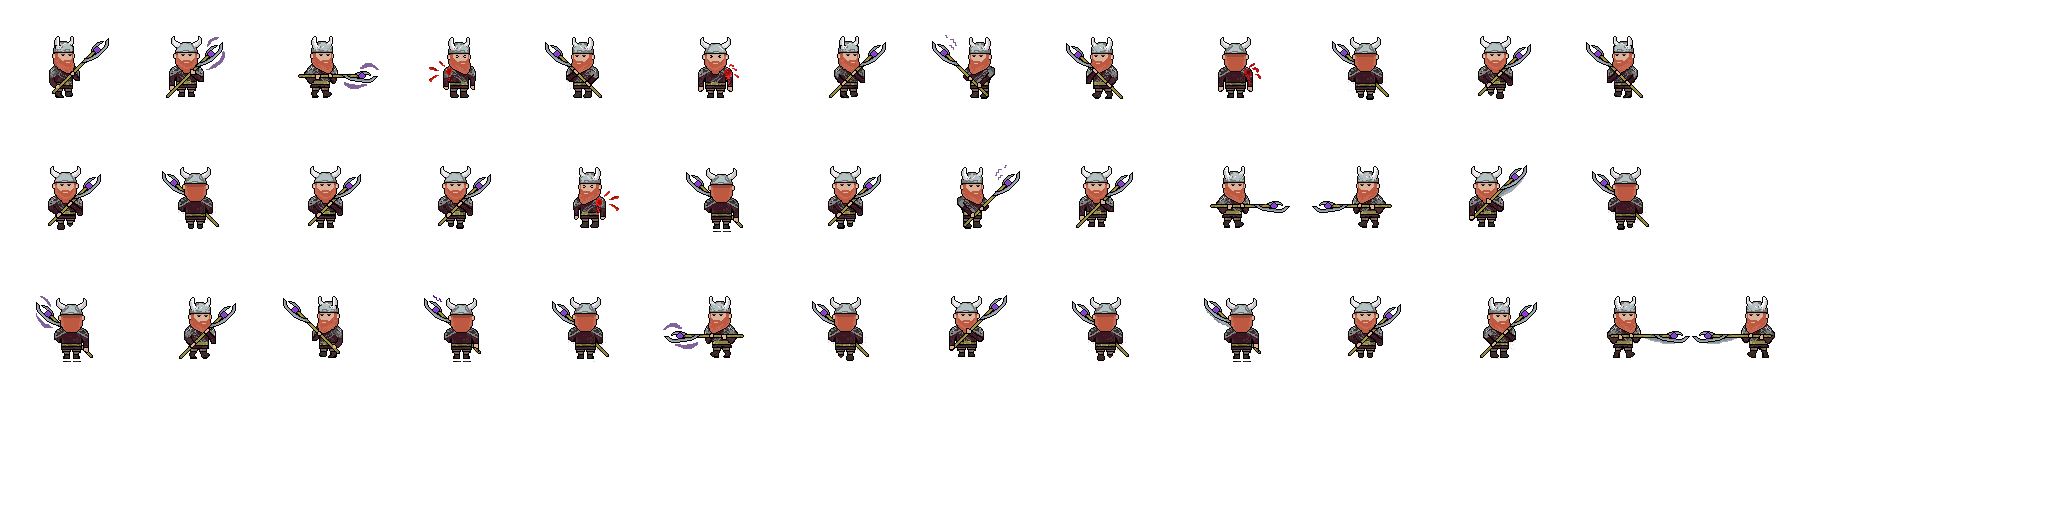
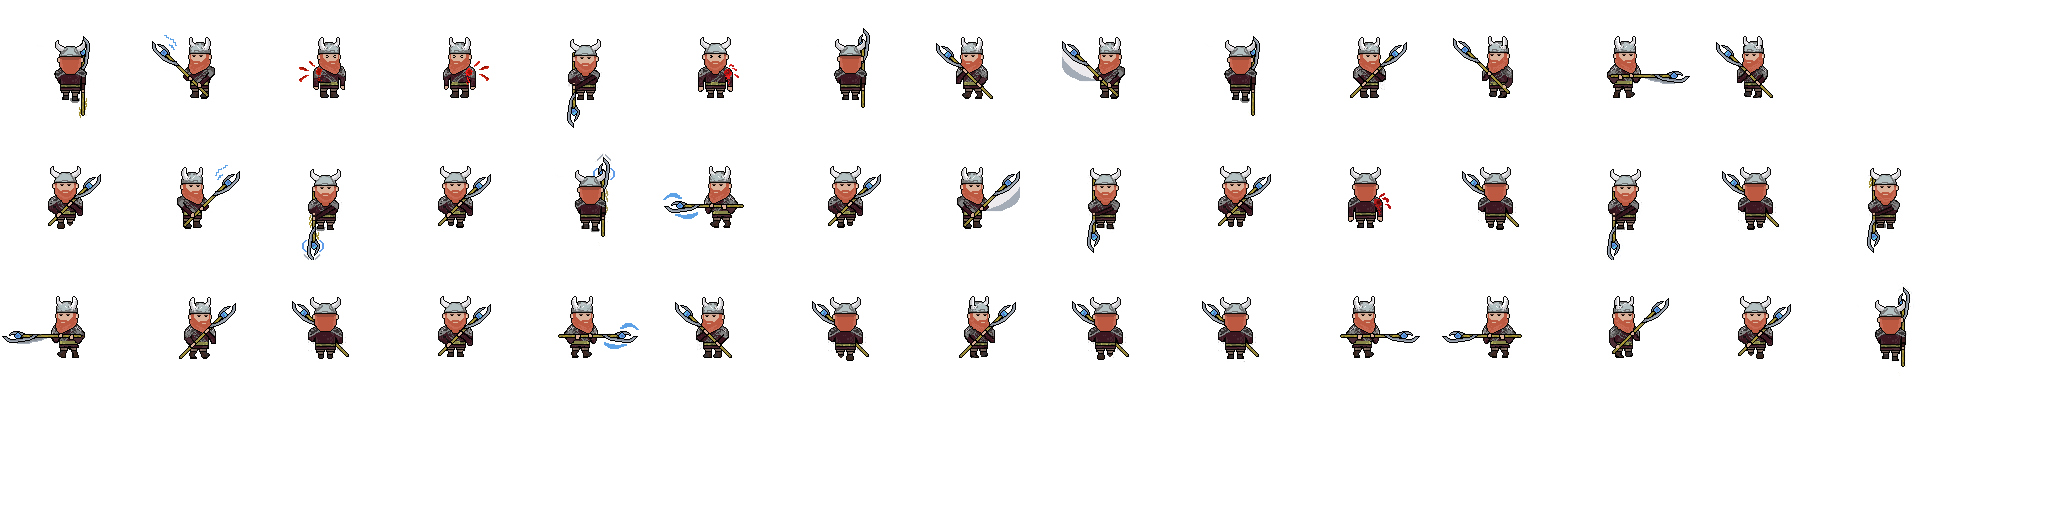
Added update scepter animations. #249 #226

diff --git a/source/core/src/main/com/deco2800/game/entities/factories/PlayerFactory.java b/source/core/src/main/com/deco2800/game/entities/factories/PlayerFactory.java
@@ -49,10 +49,12 @@ public class PlayerFactory {
                 animator = new AnimationRenderComponent(
                         ServiceLocator.getResourceService().getAsset("images/player_scepter.atlas", TextureAtlas.class));
                 // Sceptor animations
-                animator.addAnimation("left_scepter_attack", 0.1f);
-                animator.addAnimation("right_scepter_attack", 0.1f);
-                animator.addAnimation("up_scepter_attack", 0.1f);
-                animator.addAnimation("down_scepter_attack", 0.1f);
+                animator.addAnimation("left_scepter_attack", 0.08f);
+                animator.addAnimation("right_scepter_attack", 0.08f);
+                animator.addAnimation("up_scepter_attack", 0.08f);
+                animator.addAnimation("down_scepter_attack", 0.08f);
+                animator.addAnimation("up_attack", 0.08f);
+                animator.addAnimation("down_attack", 0.08f);
 
                 break;
             case "Hammer":

diff --git a/source/core/src/main/com/deco2800/game/components/weapons/Scepter.java b/source/core/src/main/com/deco2800/game/components/weapons/Scepter.java
@@ -51,10 +51,10 @@ public class Scepter extends MeleeWeapon {
         }
         switch (attackDirection) {
             case UP:
-                animator.startAnimation("up_scepter_attack");
+                animator.startAnimation("up_attack");
                 break;
             case DOWN:
-                animator.startAnimation("down_scepter_attack");
+                animator.startAnimation("down_attack");
                 break;
             case LEFT:
                 animator.startAnimation("left_scepter_attack");
